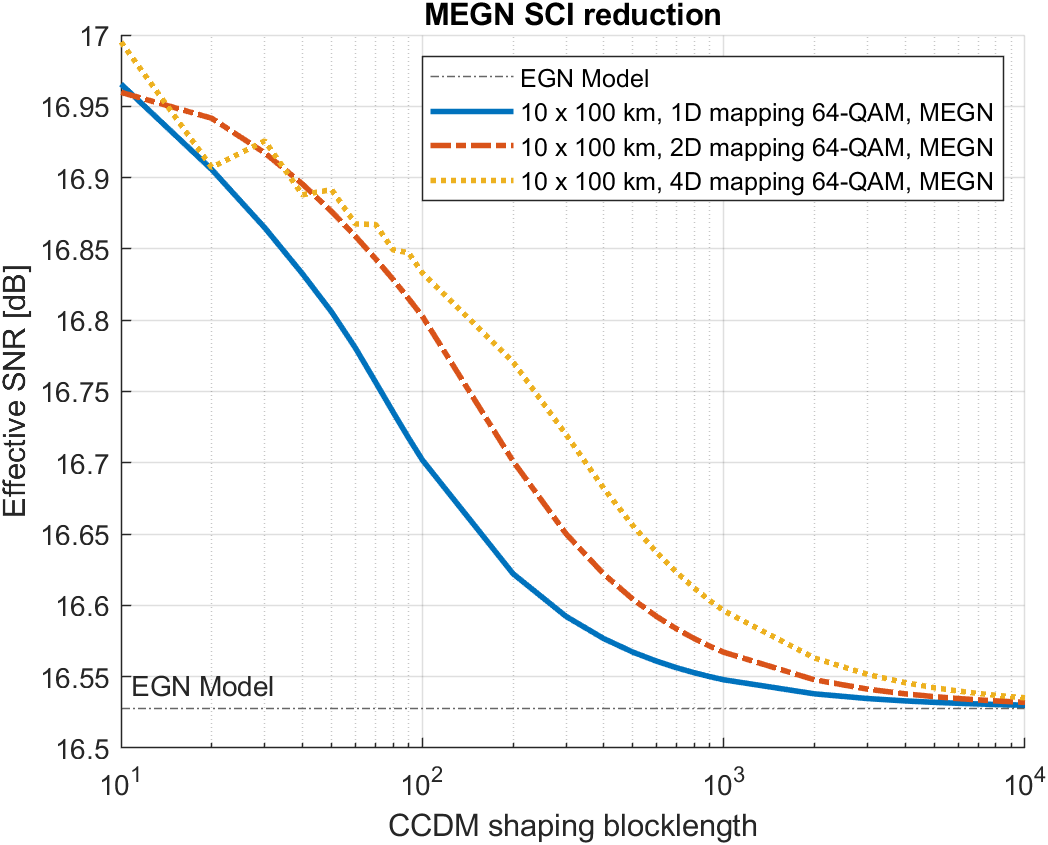
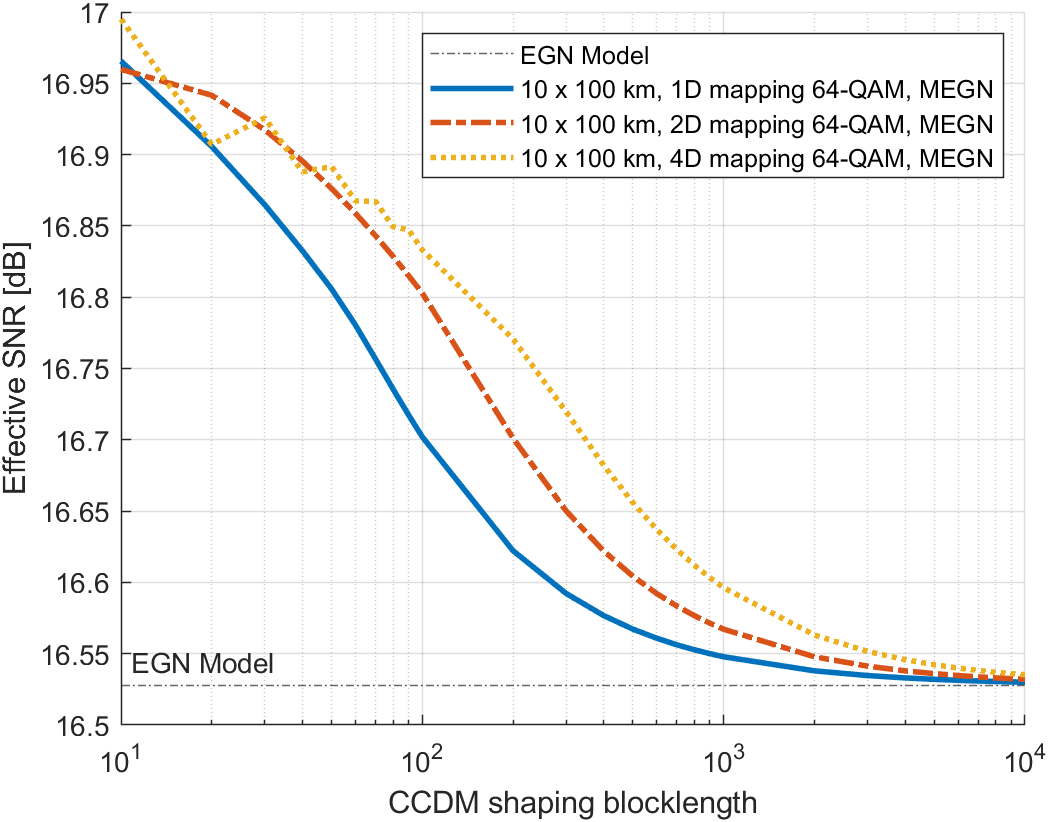
Update README figure without plot title

diff --git a/MEGN_Demo.m b/MEGN_Demo.m
@@ -104,7 +104,6 @@ for mapIdx = 1:length(mappingGP)
 end
 xlabel('CCDM shaping blocklength')
 ylabel('\eta [dB (1/W^2)]')
-title('MEGN SCI reduction')
 legend
 set(gca, 'XScale', 'log');
 grid on
@@ -123,7 +122,6 @@ for mapIdx = 1:length(mappingGP)
 end
 xlabel('CCDM shaping blocklength')
 ylabel('Effective SNR [dB]')
-title('MEGN SCI reduction')
 legend
 set(gca, 'XScale', 'log');
 grid on
